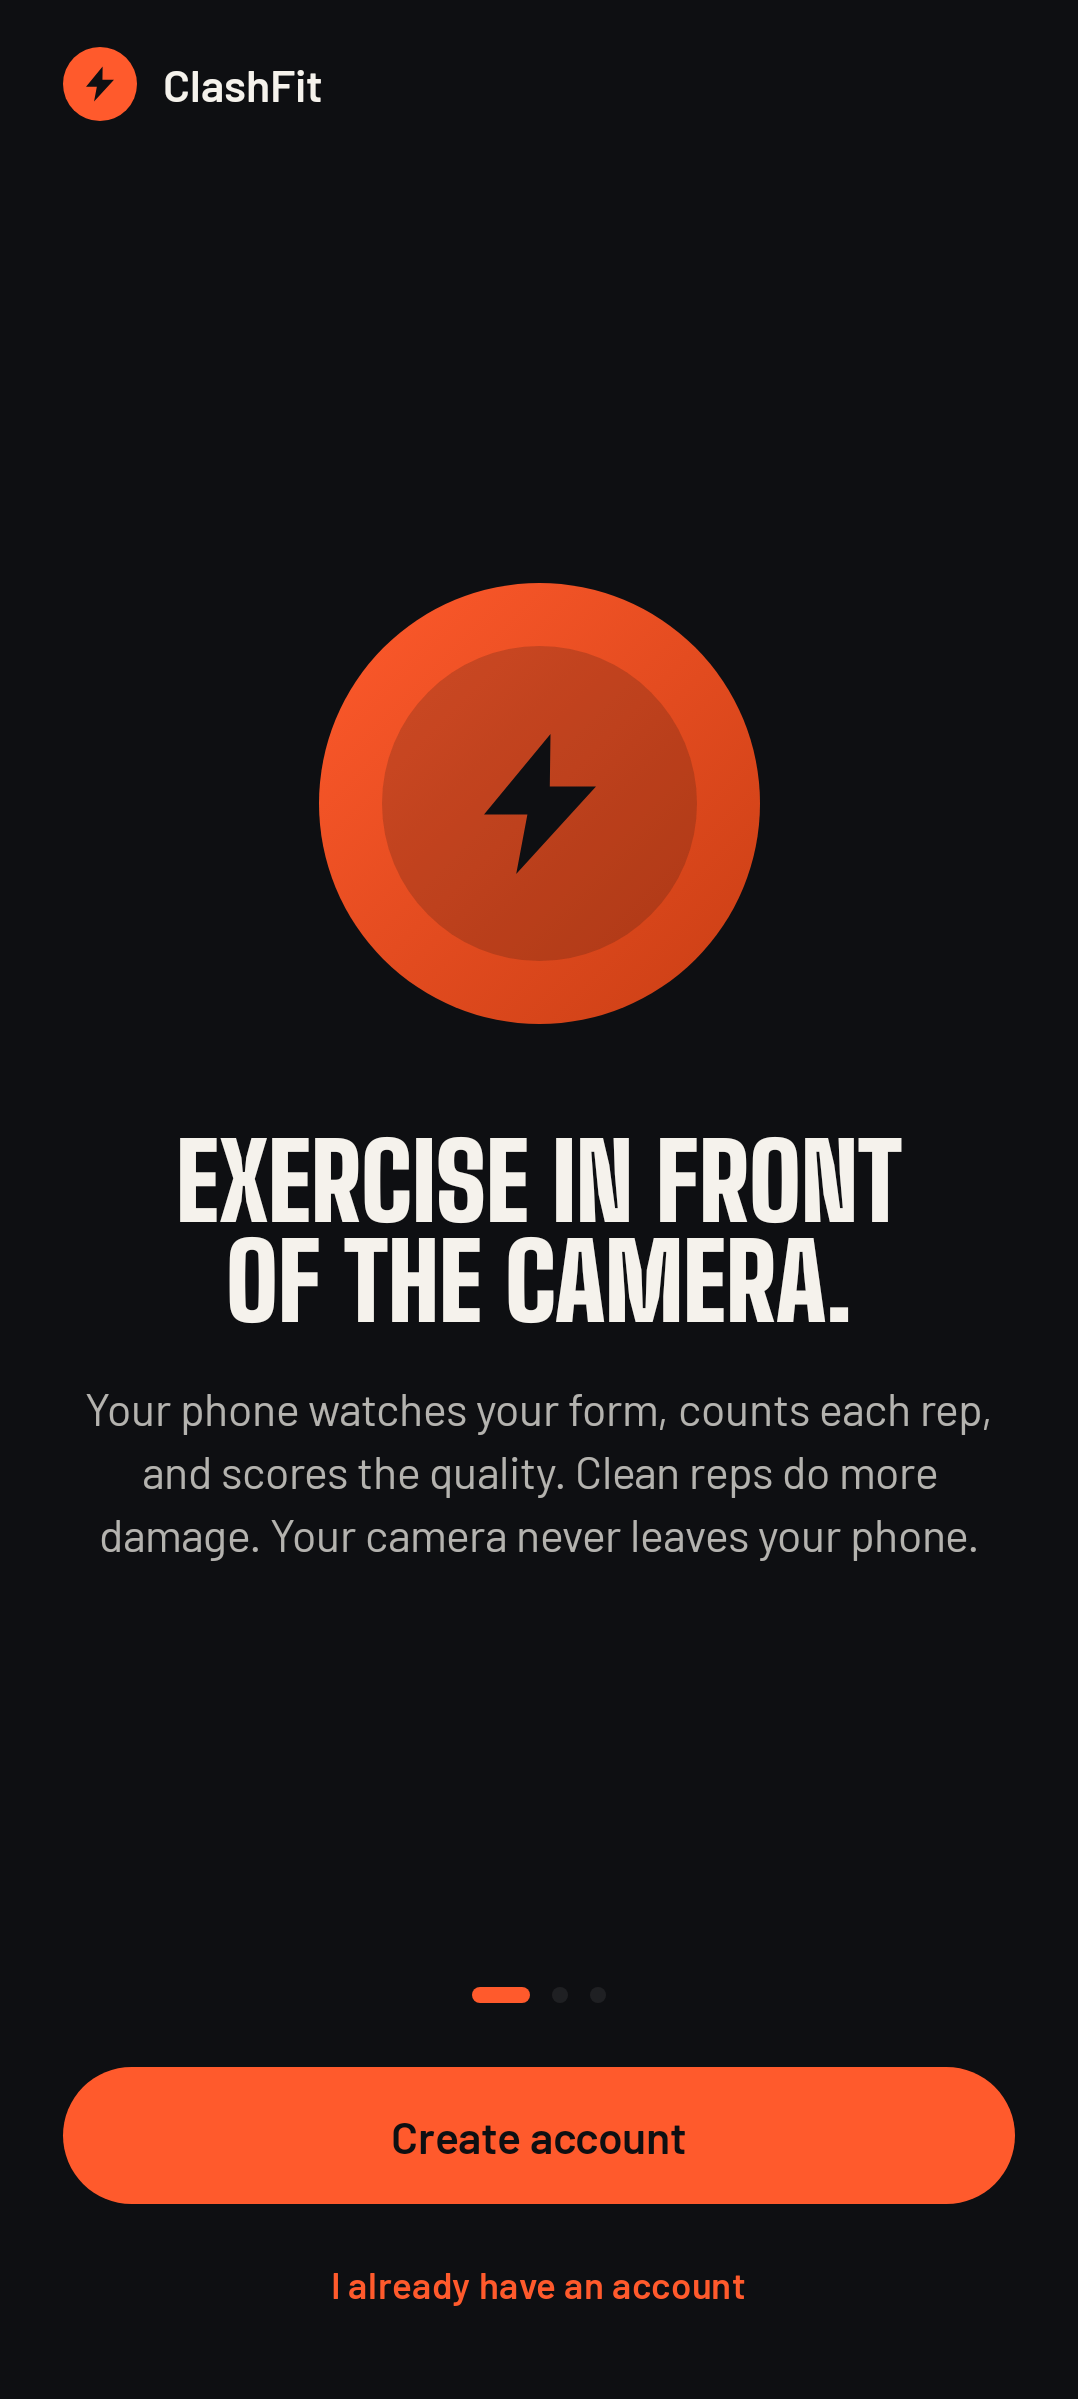
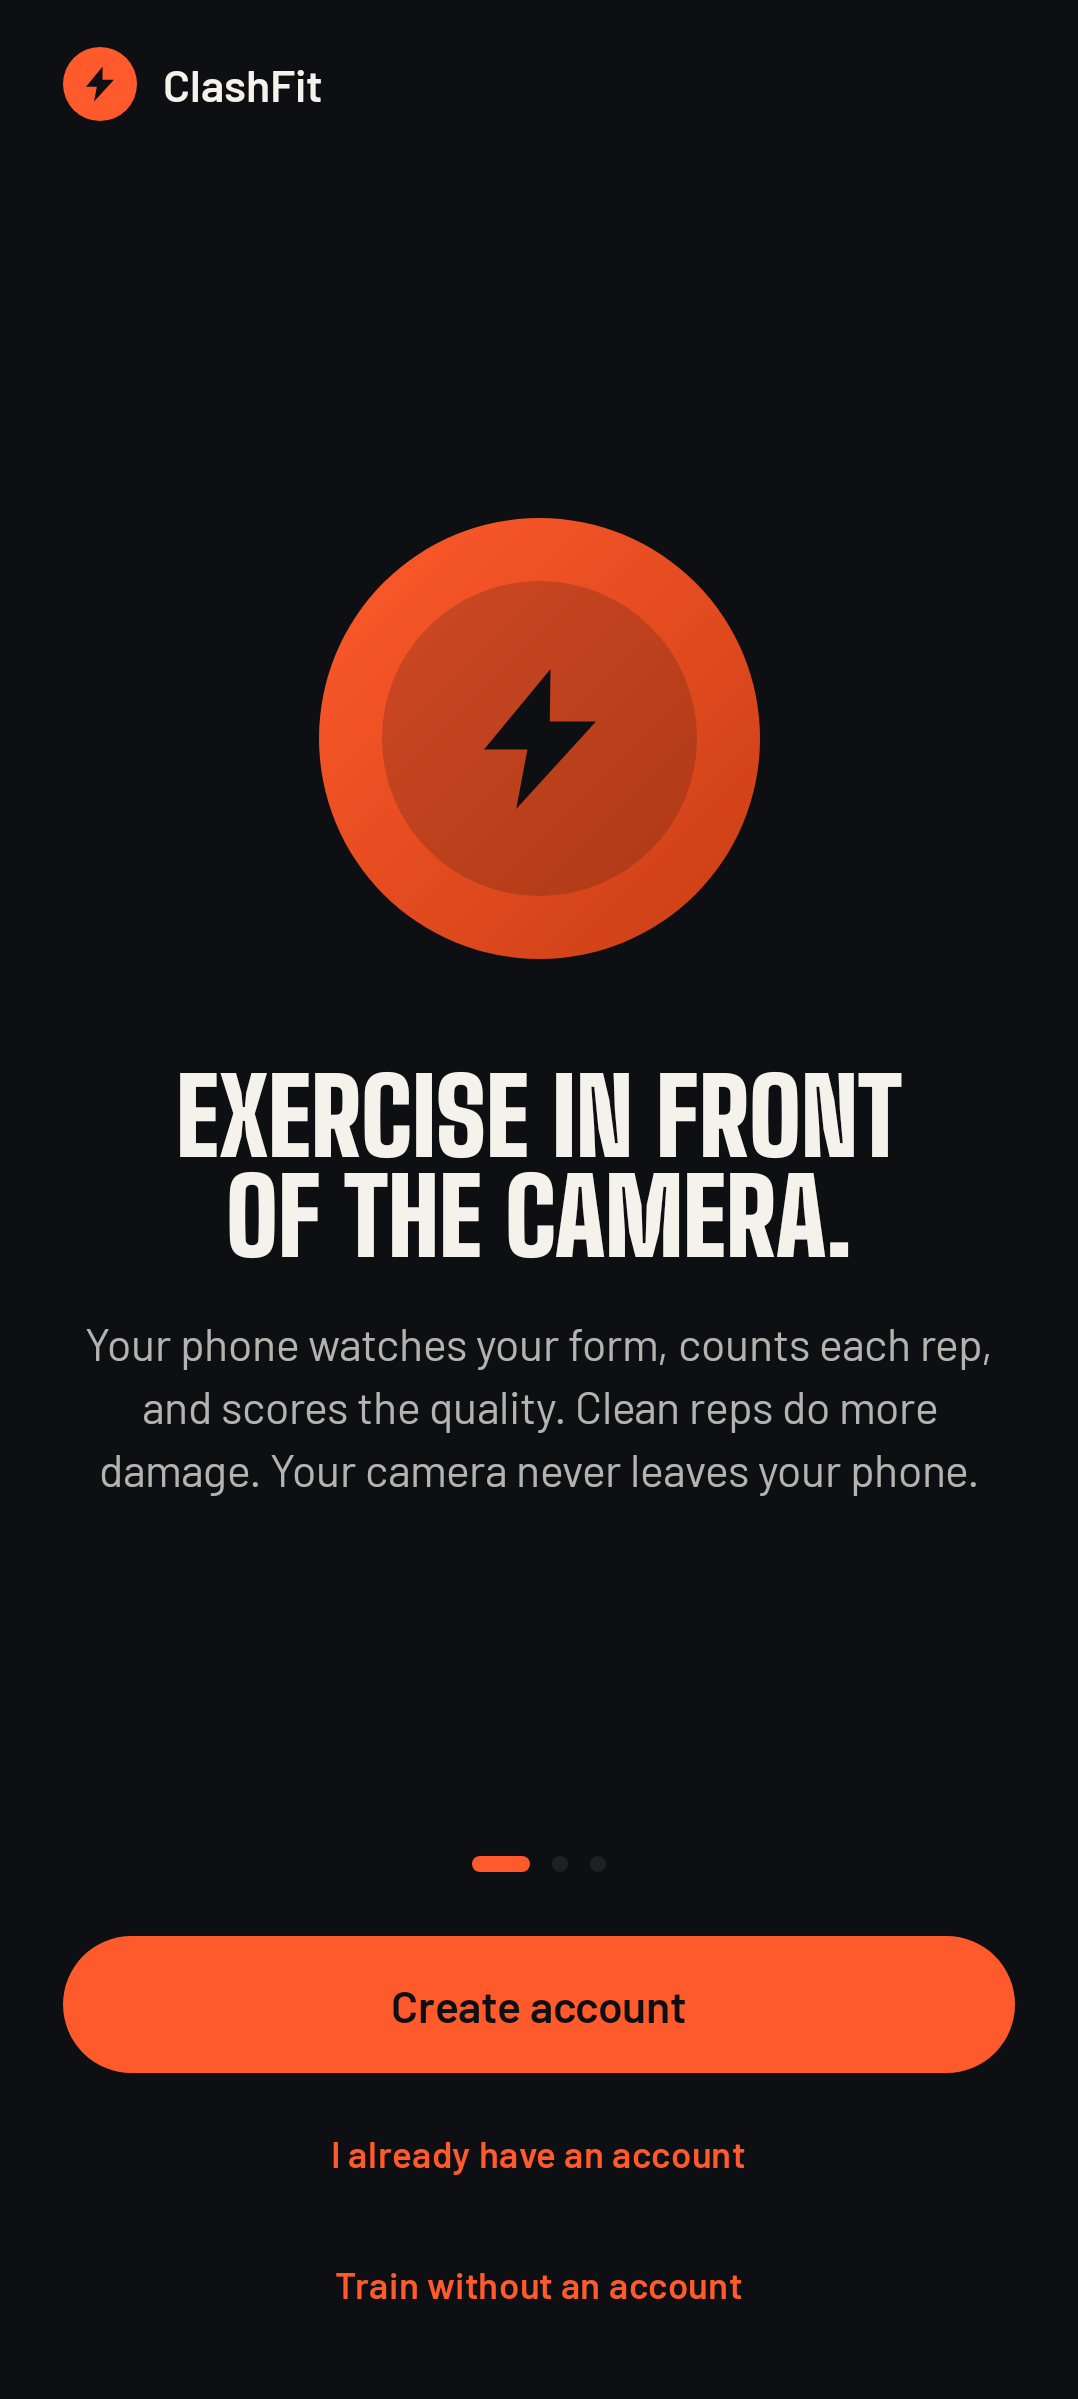
fix(android): the app can be opened with no network at all
Auditing the privacy wording found something much worse than wording. The
welcome screen offered exactly two doors — "Create account" and "I already
have an account" — and with Firebase configured, both of them talk to the
network. A signed-out launch went straight there and stopped.

So a fresh install on a venue's wifi, on a plane, or on a phone handed over
with mobile data off could not get into ClashFit at all. Not a degraded
experience: the first screen, and no way past it, and nothing on it saying
why. For an app whose whole claim is that the referee runs on the phone, that
is the worst possible failure to discover while somebody is holding it.

There is a third door now. It sets a guest flag and goes straight to the
profile, and everything behind it works — the camera, the referee, the boss,
the coach, every mode, the whole history. An account buys the leaderboard and
nothing else, and the leaderboard already has its own "Sign in" button for
whenever there is signal.

The rule that caused it is now a pure function with six tests, because it
decides whether the app opens at all and deserves better than being buried in
a LaunchedEffect. One of them holds the case that made this subtle: a guest
who signs in and later signs out goes to Train, not back to a three-page
welcome carousel, because they have been here before and their training is on
this phone.

Changed region(s): [[0.0918, 0.2159, 0.9184, 0.6478], [0.0612, 0.7712, 0.949, 0.9562]]

diff --git a/android/app/src/main/java/com/clashfit/ui/screens/splash/SplashScreen.kt b/android/app/src/main/java/com/clashfit/ui/screens/splash/SplashScreen.kt
@@ -32,6 +32,7 @@ import com.clashfit.ui.theme.Ink
 import kotlinx.coroutines.flow.first
 import kotlinx.coroutines.withTimeoutOrNull
 import kotlinx.coroutines.launch
+import com.clashfit.data.Prefs
 
 /**
  * Absorbs config load, then decides the first screen: a stranger sees the welcome, a signed-in
@@ -51,14 +52,8 @@ fun SplashScreen(graph: AppGraph, onReady: (Route) -> Unit) {
         val auth = withTimeoutOrNull(AUTH_WAIT_MS) {
             graph.auth.state.first { it !is AuthState.Loading }
         } ?: AuthState.SignedOut
-        val onboarded = graph.prefs.settings.first().onboarded
-        onReady(
-            when {
-                auth is AuthState.SignedOut -> Onboarding
-                !onboarded -> ProfileSetup
-                else -> Home
-            },
-        )
+        val settings = graph.prefs.settings.first()
+        onReady(firstRoute(auth, settings))
     }
     Box(Modifier.fillMaxSize().background(Ground), contentAlignment = Alignment.Center) {
         Column(horizontalAlignment = Alignment.CenterHorizontally, verticalArrangement = Arrangement.spacedBy(16.dp), modifier = Modifier.padding(32.dp)) {
@@ -77,3 +72,23 @@ fun SplashScreen(graph: AppGraph, onReady: (Route) -> Unit) {
 
 /** Long enough for a real sign-in check, short enough that nobody watching notices. */
 private const val AUTH_WAIT_MS = 2_500L
+
+/**
+ * Which screen a launch lands on.
+ *
+ * A pure function because the rule it encodes is the one that decides whether the app can be
+ * opened at all, and it was wrong: a signed-out person went to the welcome carousel, whose only
+ * two doors were "create account" and "sign in". Both of those talk to Firebase. A fresh install
+ * with no signal — a venue's wifi, a plane, a phone handed over with data off — could not get
+ * past the first screen, and nothing on it said so.
+ *
+ * The third door sets [Prefs.Settings.guest]. A guest is signed out and has still been here
+ * before, so they go straight in; sending them back to the carousel every launch would make the
+ * door pointless. Signing in later does not clear the flag and does not need to — a signed-in
+ * person never reaches that branch.
+ */
+internal fun firstRoute(auth: AuthState, settings: Prefs.Settings): Route = when {
+    auth is AuthState.SignedOut && !settings.guest -> Onboarding
+    !settings.onboarded -> ProfileSetup
+    else -> Home
+}

diff --git a/android/app/src/test/java/com/clashfit/ui/screens/splash/FirstRouteTest.kt b/android/app/src/test/java/com/clashfit/ui/screens/splash/FirstRouteTest.kt
@@ -1,0 +1,59 @@
+package com.clashfit.ui.screens.splash
+
+import com.clashfit.auth.AuthState
+import com.clashfit.auth.AuthUser
+import com.clashfit.data.Prefs
+import com.clashfit.ui.nav.Home
+import com.clashfit.ui.nav.Onboarding
+import com.clashfit.ui.nav.ProfileSetup
+import org.junit.Assert.assertEquals
+import org.junit.Test
+
+/**
+ * The rule that decides whether the app can be opened at all.
+ *
+ * Both doors on the welcome screen talk to Firebase. Before the third one existed, a signed-out
+ * launch went there and stopped: a fresh install on a venue's wifi, on a plane, or on a phone
+ * handed over with mobile data off could not get into the app, and nothing on the screen said why.
+ * That is the worst possible failure to find out about while somebody is holding the phone.
+ */
+class FirstRouteTest {
+
+    private val signedIn = AuthState.SignedIn(AuthUser(uid = "u1", email = "a@b.c", displayName = "A"))
+    private val fresh = Prefs.Settings()
+
+    @Test
+    fun `a stranger is shown the welcome`() {
+        assertEquals(Onboarding, firstRoute(AuthState.SignedOut, fresh))
+    }
+
+    @Test
+    fun `a guest goes straight in and is never asked again`() {
+        val guest = fresh.copy(guest = true, onboarded = true)
+        assertEquals(Home, firstRoute(AuthState.SignedOut, guest))
+    }
+
+    @Test
+    fun `a guest who has not finished the profile finishes it first`() {
+        val guest = fresh.copy(guest = true, onboarded = false)
+        assertEquals(ProfileSetup, firstRoute(AuthState.SignedOut, guest))
+    }
+
+    @Test
+    fun `a signed-in player who has not onboarded lands on the profile`() {
+        assertEquals(ProfileSetup, firstRoute(signedIn, fresh))
+    }
+
+    @Test
+    fun `a returning player lands on Train`() {
+        assertEquals(Home, firstRoute(signedIn, fresh.copy(onboarded = true)))
+    }
+
+    @Test
+    fun `signing out after being a guest does not throw them back to the carousel`() {
+        // They have been here before and their training is on this phone. Sending them to a
+        // three-page welcome would read as the app having forgotten them.
+        val after = fresh.copy(guest = true, onboarded = true)
+        assertEquals(Home, firstRoute(AuthState.SignedOut, after))
+    }
+}

diff --git a/android/app/src/main/java/com/clashfit/data/Prefs.kt b/android/app/src/main/java/com/clashfit/data/Prefs.kt
@@ -35,6 +35,15 @@ class Prefs(private val context: Context) {
         val deskSnoozedUntilMs: Long = 0L,
         /** True once the first-run flow has been completed on this device. */
         val onboarded: Boolean = false,
+        /**
+         * True once somebody has chosen to train without an account.
+         *
+         * The welcome screen offered two doors and both of them needed the network, so a fresh
+         * install with no signal could not get past it at all. This is the third door. It is not
+         * an account and it grants nothing: the leaderboard still says sign in, because there is
+         * nobody to put on it. Signing in later makes it irrelevant rather than replacing it.
+         */
+        val guest: Boolean = false,
         /** What the player said they are here for. One of [Goal]. */
         val goal: String = Goal.GET_STRONGER.name,
         /** Index into the avatar palette on the profile. */
@@ -76,12 +85,14 @@ class Prefs(private val context: Context) {
             deskQuietToHour = p[DESK_QUIET_TO_HOUR] ?: 9,
             deskSnoozedUntilMs = p[DESK_SNOOZED_UNTIL_MS] ?: 0L,
             onboarded = p[ONBOARDED] ?: false,
+            guest = p[GUEST] ?: false,
             goal = p[GOAL] ?: Goal.GET_STRONGER.name,
             avatarColor = p[AVATAR_COLOR] ?: 0,
             boss3d = p[BOSS_3D] ?: true,
         )
     }
 
+    suspend fun setGuest(v: Boolean) = context.dataStore.edit { it[GUEST] = v }
     suspend fun setReduceMotion(v: Boolean) = context.dataStore.edit { it[REDUCE_MOTION] = v }
     suspend fun setBoss3d(v: Boolean) = context.dataStore.edit { it[BOSS_3D] = v }
     suspend fun setHaptics(v: Boolean) = context.dataStore.edit { it[HAPTICS] = v }
@@ -128,6 +139,7 @@ class Prefs(private val context: Context) {
         val DESK_QUIET_TO_HOUR = intPreferencesKey("desk_quiet_to_hour")
         val DESK_SNOOZED_UNTIL_MS = longPreferencesKey("desk_snoozed_until_ms")
         val ONBOARDED = booleanPreferencesKey("onboarded")
+        val GUEST = booleanPreferencesKey("guest")
         val GOAL = stringPreferencesKey("goal")
         val AVATAR_COLOR = intPreferencesKey("avatar_color")
     }

diff --git a/android/app/src/main/java/com/clashfit/ui/screens/onboarding/WelcomeScreen.kt b/android/app/src/main/java/com/clashfit/ui/screens/onboarding/WelcomeScreen.kt
@@ -48,7 +48,7 @@ private val PAGES = listOf(
 
 /** The first thing a new player sees. Three pages, two buttons, no wall of text. */
 @Composable
-fun WelcomeScreen(onCreateAccount: () -> Unit, onSignIn: () -> Unit) {
+fun WelcomeScreen(onCreateAccount: () -> Unit, onSignIn: () -> Unit, onSkip: () -> Unit) {
     val pager = rememberPagerState(pageCount = { PAGES.size })
     Column(Modifier.fillMaxSize().background(Ground).safeDrawingPadding()) {
         Row(Modifier.fillMaxWidth().padding(horizontal = 24.dp, vertical = 18.dp), verticalAlignment = Alignment.CenterVertically) {
@@ -96,6 +96,12 @@ fun WelcomeScreen(onCreateAccount: () -> Unit, onSignIn: () -> Unit) {
             PrimaryButton("Create account", onClick = onCreateAccount)
             Spacer(Modifier.height(6.dp))
             LinkButton("I already have an account", onClick = onSignIn)
+            Spacer(Modifier.height(2.dp))
+            // Both doors above need the network. On a venue's wifi, or on a plane, or on a phone
+            // handed over with mobile data off, this is the only one that opens — and everything
+            // behind it works: the camera, the referee, the boss, the coach, every mode. An
+            // account buys the leaderboard and nothing else.
+            LinkButton("Train without an account", onClick = onSkip)
         }
     }
 }

diff --git a/android/app/src/main/java/com/clashfit/ui/nav/AppNavHost.kt b/android/app/src/main/java/com/clashfit/ui/nav/AppNavHost.kt
@@ -46,6 +46,8 @@ import com.clashfit.ui.theme.Motion
 import kotlinx.coroutines.flow.Flow
 import com.clashfit.ui.screens.session.bossPreviewRoutes
 import com.clashfit.ui.screens.social.competeRoutes
+import androidx.compose.runtime.rememberCoroutineScope
+import kotlinx.coroutines.launch
 
 /**
  * The whole navigation graph, inside the app shell. The shell draws the bottom bar and hides it
@@ -100,7 +102,19 @@ fun AppNavHost(
             }
 
             // ── first run ──
-            composable<Onboarding> { WelcomeScreen(onCreateAccount = { nav.navigate(SignUp) }, onSignIn = { nav.navigate(SignIn) }) }
+            composable<Onboarding> {
+                val scope = rememberCoroutineScope()
+                WelcomeScreen(
+                    onCreateAccount = { nav.navigate(SignUp) },
+                    onSignIn = { nav.navigate(SignIn) },
+                    onSkip = {
+                        scope.launch {
+                            graph.prefs.setGuest(true)
+                            nav.navigate(ProfileSetup) { popUpTo<Onboarding> { inclusive = true } }
+                        }
+                    },
+                )
+            }
             composable<SignUp> {
                 SignUpScreen(
                     graph,

diff --git a/android/app/src/test/java/com/clashfit/ui/ScreenshotTest.kt b/android/app/src/test/java/com/clashfit/ui/ScreenshotTest.kt
@@ -105,7 +105,7 @@ class ScreenshotTest {
     private val none: () -> Unit = {}
 
     // first run
-    @Test fun welcome() = bare("00a-welcome") { WelcomeScreen(onCreateAccount = none, onSignIn = none) }
+    @Test fun welcome() = bare("00a-welcome") { WelcomeScreen(onCreateAccount = none, onSignIn = none, onSkip = none) }
     @Test fun signUp() = bare("00b-sign-up") { SignUpScreen(graph, onBack = none, onSignIn = none, onDone = none) }
     @Test fun signIn() = bare("00c-sign-in") { SignInScreen(graph, onBack = none, onSignUp = none, onForgot = none, onDone = none) }
     @Test fun reset() = bare("00d-reset") { ResetPasswordScreen(graph, onBack = none) }
